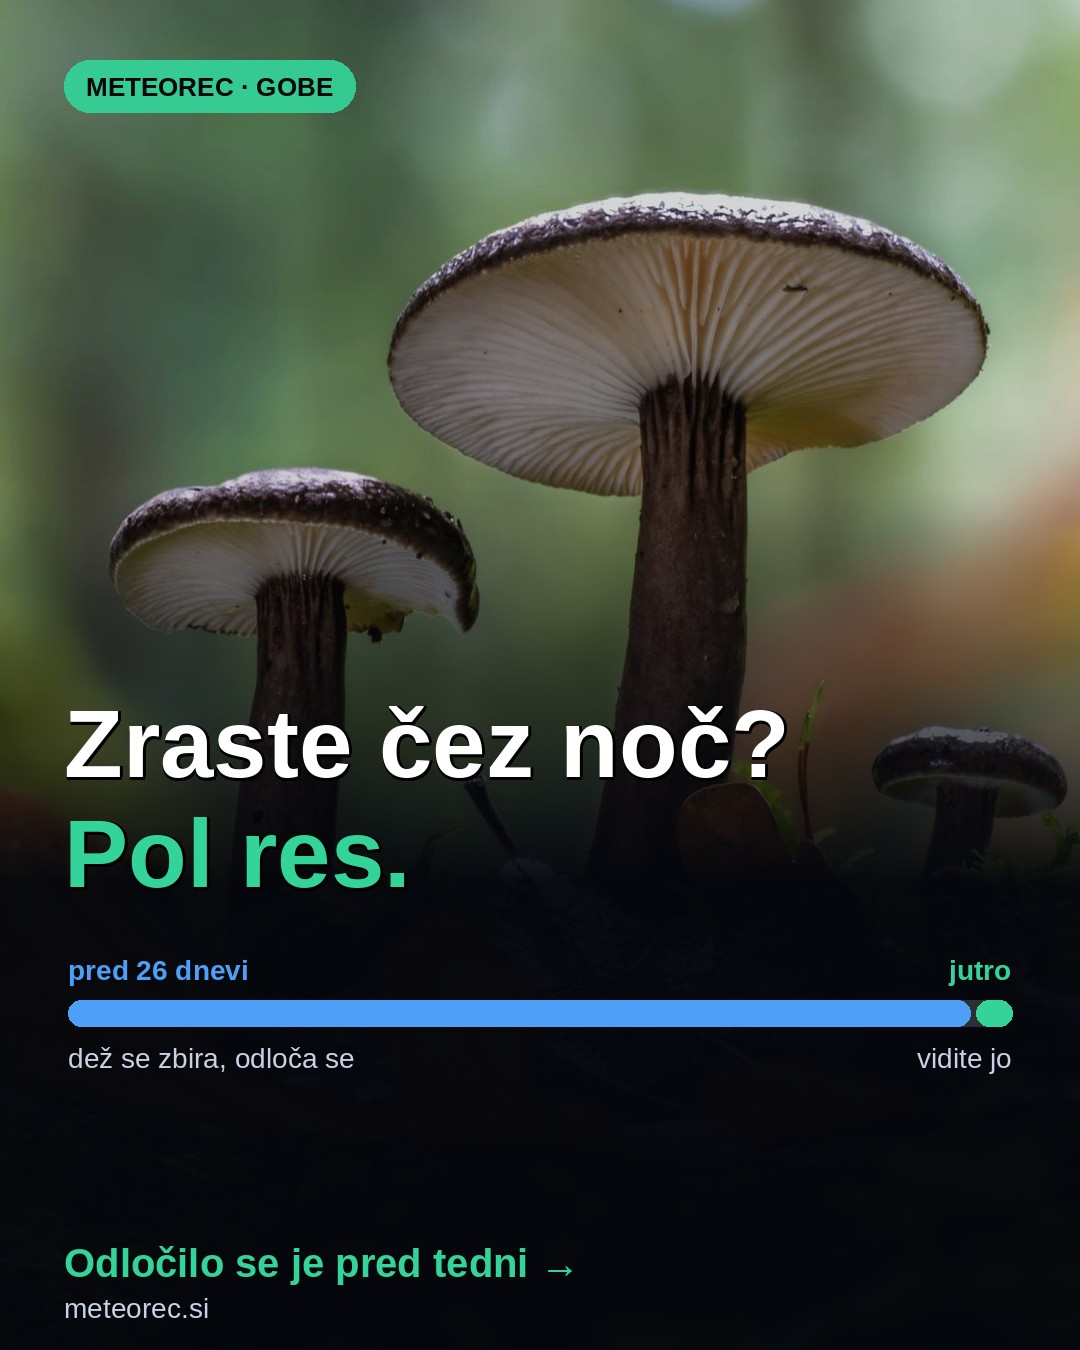
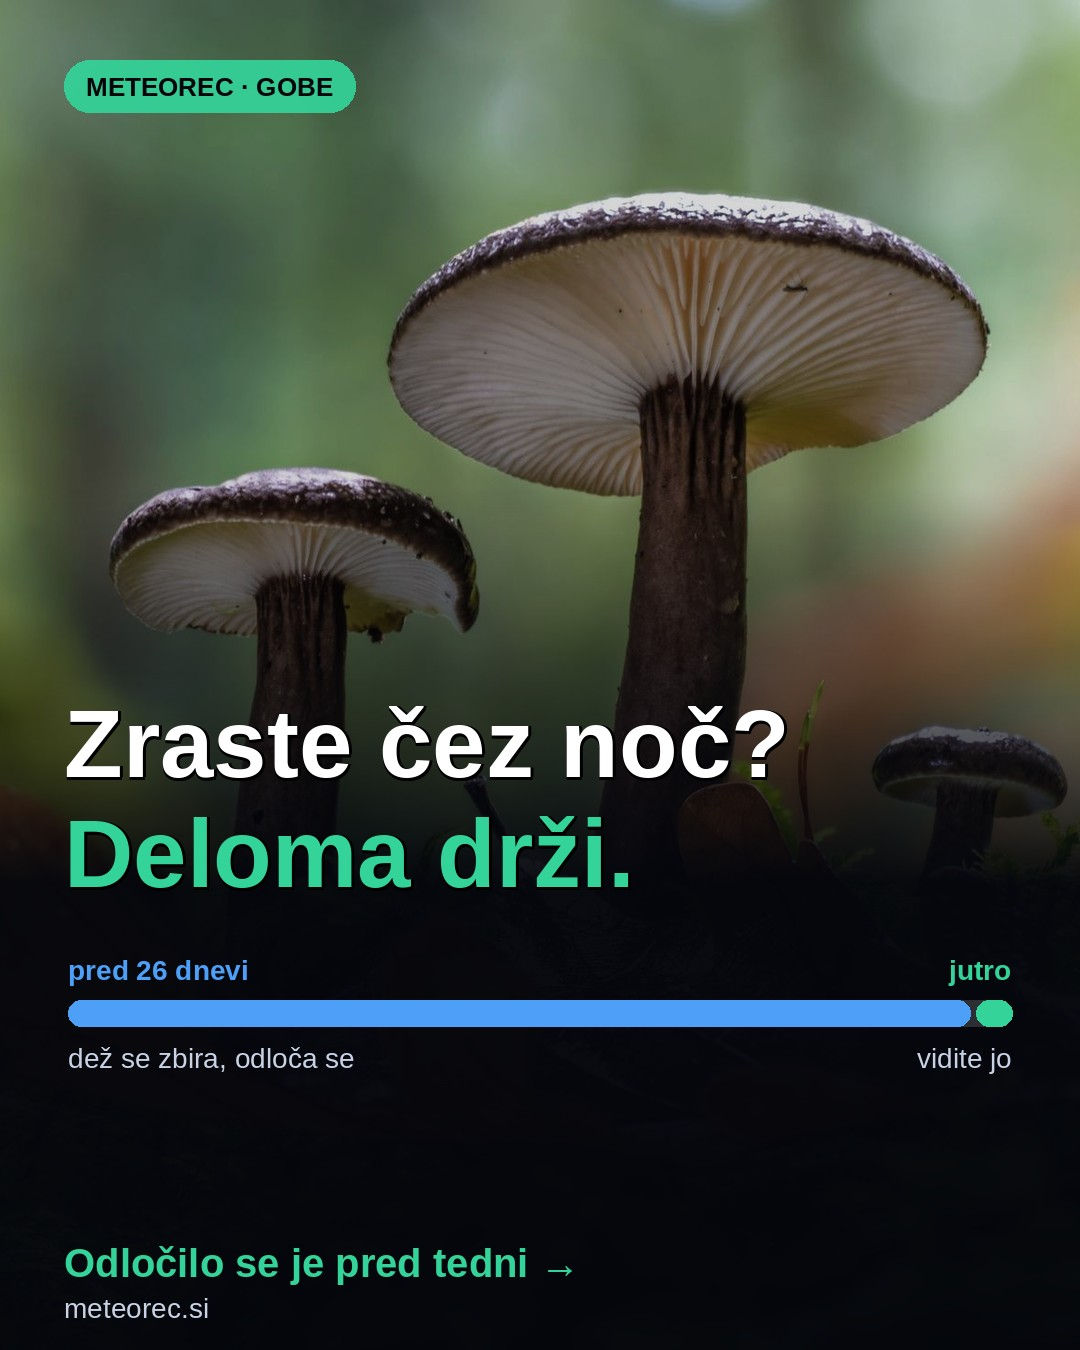
blog: »pol res« → »deloma drži« (članek, opis, FAQ, kartica, vodnik) (#1142)
Claude-Session: https://claude.ai/code/session_01BHL3s1ghsFVEuN7zdpKS3d

Changed region(s): [[0.0611, 0.5911, 0.5806, 0.6533]]

diff --git a/blog/goba-zraste-cez-noc-odlocilo-se-je-pred-tedni.html b/blog/goba-zraste-cez-noc-odlocilo-se-je-pred-tedni.html
@@ -21,7 +21,7 @@ j=d.createElement(s),dl=l!='dataLayer'?'&l='+l:'';j.async=true;j.src=
 <link rel="canonical" href="https://meteorec.si/blog/goba-zraste-cez-noc-odlocilo-se-je-pred-tedni.html">
 <link rel="alternate" hreflang="sl" href="https://meteorec.si/blog/goba-zraste-cez-noc-odlocilo-se-je-pred-tedni.html">
 <link rel="alternate" hreflang="x-default" href="https://meteorec.si/blog/goba-zraste-cez-noc-odlocilo-se-je-pred-tedni.html">
-<meta name="description" content="Goba res zraste čez noč? Pol res. Zadnja faza je hitra, odločilo pa se je pred tedni: študija jurčkov, podatki postaje in opažanja gob.">
+<meta name="description" content="Goba res zraste čez noč? Deloma drži. Zadnja faza je hitra, odločilo pa se je pred tedni: študija jurčkov, podatki postaje in opažanja gob.">
 <meta name="keywords" content="gobe, gobarski-indeks, analiza, zgornja savinjska dolina">
 <meta name="robots" content="index, follow, max-image-preview:large">
 <meta name="author" content="Filip Eremita">
@@ -29,7 +29,7 @@ j=d.createElement(s),dl=l!='dataLayer'?'&l='+l:'';j.async=true;j.src=
 <meta property="og:url" content="https://meteorec.si/blog/goba-zraste-cez-noc-odlocilo-se-je-pred-tedni.html">
 <meta property="og:site_name" content="Meteorec">
 <meta property="og:title" content="Goba zraste čez noč? Odločilo se je pred tedni">
-<meta property="og:description" content="Goba res zraste čez noč? Pol res. Zadnja faza je hitra, odločilo pa se je pred tedni: študija jurčkov, podatki postaje in opažanja gob.">
+<meta property="og:description" content="Goba res zraste čez noč? Deloma drži. Zadnja faza je hitra, odločilo pa se je pred tedni: študija jurčkov, podatki postaje in opažanja gob.">
 <meta property="og:image" content="https://meteorec.si/og/goba-zraste-cez-noc-odlocilo-se-je-pred-tedni.jpg">
 <meta property="og:image:width" content="1200">
 <meta property="og:image:height" content="630">
@@ -39,14 +39,14 @@ j=d.createElement(s),dl=l!='dataLayer'?'&l='+l:'';j.async=true;j.src=
 <meta property="article:section" content="Gobe">
 <meta name="twitter:card" content="summary_large_image">
 <meta name="twitter:title" content="Goba zraste čez noč? Odločilo se je pred tedni">
-<meta name="twitter:description" content="Goba res zraste čez noč? Pol res. Zadnja faza je hitra, odločilo pa se je pred tedni: študija jurčkov, podatki postaje in opažanja gob.">
+<meta name="twitter:description" content="Goba res zraste čez noč? Deloma drži. Zadnja faza je hitra, odločilo pa se je pred tedni: študija jurčkov, podatki postaje in opažanja gob.">
 <meta name="twitter:image" content="https://meteorec.si/og/goba-zraste-cez-noc-odlocilo-se-je-pred-tedni.jpg">
 <script type="application/ld+json">
 {
   "@context": "https://schema.org",
   "@type": "BlogPosting",
   "headline": "Goba zraste čez noč? Odločilo se je pred tedni",
-  "description": "Goba res zraste čez noč? Pol res. Zadnja faza je hitra, odločilo pa se je pred tedni: študija jurčkov, podatki postaje in opažanja gob.",
+  "description": "Goba res zraste čez noč? Deloma drži. Zadnja faza je hitra, odločilo pa se je pred tedni: študija jurčkov, podatki postaje in opažanja gob.",
   "image": { "@type": "ImageObject", "url": "https://meteorec.si/og/goba-zraste-cez-noc-odlocilo-se-je-pred-tedni.jpg", "width": 1200, "height": 630 },
   "datePublished": "2026-10-10T17:05:40.560301+00:00",
   "dateModified": "2026-10-10T17:05:40.560301+00:00",
@@ -71,7 +71,7 @@ j=d.createElement(s),dl=l!='dataLayer'?'&l='+l:'';j.async=true;j.src=
       "name": "Ali goba zraste čez noč?",
       "acceptedAnswer": {
         "@type": "Answer",
-        "text": "Pol res. Napihovanje zametka v zrel klobuk je lahko hitro, vendar zametek nastane več dni prej, vlaga in toplota, ki ga sprožita, pa delujeta tedne. Zato je opažanje »zraste čez noč« skladno z vsemi tremi stvarmi hkrati."
+        "text": "Deloma drži. Napihovanje zametka v zrel klobuk je lahko hitro, vendar zametek nastane več dni prej, vlaga in toplota, ki ga sprožita, pa delujeta tedne. Zato je opažanje »zraste čez noč« skladno z vsemi tremi stvarmi hkrati."
       }
     },
     {
@@ -157,7 +157,7 @@ height="0" width="0" style="display:none;visibility:hidden"></iframe></noscript>
     <h1>Goba zraste čez noč? Odločilo se je pred tedni</h1>
     <p class="post-meta">10. oktobra 2026 · Filip Eremita · ročni članek</p>
 
-    <p class="lead"><strong>Kratek odgovor: pol res.</strong> Ko jurček enkrat požene, raste hitro, zato ga zjutraj vidite, včeraj pa ga ni bilo. A goba, ki je zdaj velika, je začela nastajati nekaj dni prej, vlaga, ki jo je sprožila, pa se je nabirala tedne. Desetletna študija jurčkov v nemškem bukovem gozdu kaže, da je bilo plodenje najverjetnejše, ko je bila povprečna temperatura v prejšnjih 20 dneh okoli 13 °C, in da je verjetnost naraščala z dežjem, seštetim v prejšnjih 26 dneh. Zato se vam zdi, da je zrasla čez noč, odločilo pa se je že pred tremi tedni.</p>
+    <p class="lead"><strong>Kratek odgovor: deloma drži.</strong> Ko jurček enkrat požene, raste hitro, zato ga zjutraj vidite, včeraj pa ga ni bilo. A goba, ki je zdaj velika, je začela nastajati nekaj dni prej, vlaga, ki jo je sprožila, pa se je nabirala tedne. Desetletna študija jurčkov v nemškem bukovem gozdu kaže, da je bilo plodenje najverjetnejše, ko je bila povprečna temperatura v prejšnjih 20 dneh okoli 13 °C, in da je verjetnost naraščala z dežjem, seštetim v prejšnjih 26 dneh. Zato se vam zdi, da je zrasla čez noč, odločilo pa se je že pred tremi tedni.</p>
 
     <div class="mini-stat-grid">
       <div class="mini-stat"><div class="ms-label">Temperaturno okno</div><div class="ms-val">20 dni</div><div class="ms-sub">vrh pri ~13 °C (jurček, Nemčija)</div></div>
@@ -272,7 +272,7 @@ height="0" width="0" style="display:none;visibility:hidden"></iframe></noscript>
     <span class="section-label">07 — pogosta vprašanja</span>
     <h2 id="faq">Pogosta vprašanja</h2>
     <h3>Ali goba zraste čez noč?</h3>
-    <p>Pol res. Napihovanje zametka v zrel klobuk je lahko hitro, vendar zametek nastane več dni prej, vlaga in toplota, ki ga sprožita, pa delujeta tedne. Zato je opažanje »zraste čez noč« skladno z vsemi tremi stvarmi hkrati.</p>
+    <p>Deloma drži. Napihovanje zametka v zrel klobuk je lahko hitro, vendar zametek nastane več dni prej, vlaga in toplota, ki ga sprožita, pa delujeta tedne. Zato je opažanje »zraste čez noč« skladno z vsemi tremi stvarmi hkrati.</p>
     <h3>Koliko dni po dežju rastejo jurčki?</h3>
     <p>Po opažanjih na iNaturalist je mediana 10 dni po začetku zadnjega močnega dežja (običajni razpon 4–17 dni). Del gob je opaženih že v dveh dneh. Naš model uporablja okno 8–16 dni.</p>
     <h3>Koliko dežja potrebuje jurček?</h3>

diff --git a/blog/koliko-dni-po-dezju-rastejo-gobe.html b/blog/koliko-dni-po-dezju-rastejo-gobe.html
@@ -148,7 +148,7 @@ height="0" width="0" style="display:none;visibility:hidden"></iframe></noscript>
   <!-- sorodni:start — samodejno, wire_all(); ne urejaj ročno -->
   <section class="related-posts">
     <h2 class="related-title">Sorodni članki</h2>
-    <div class="related-grid"><a class="related-card" href="/blog/gobe-po-dezju-8-10-oktobra-kdaj-in-kje-1007.html"><span class="related-date">7. oktobra 2026</span><span class="related-h">Gobe po dežju 8.–10. oktobra: kdaj in kje jih pričakovati</span><span class="related-sum">Dež 8.–10. 10. konča 18 suhih dni. Gobe na lesu pridejo prve (11.–20. 10.), jurčki 16.–26. 10. Interaktivni grafi: okna …</span></a><a class="related-card" href="/blog/goba-zraste-cez-noc-odlocilo-se-je-pred-tedni.html"><span class="related-date">10. oktobra 2026</span><span class="related-h">Goba zraste čez noč? Odločilo se je pred tedni</span><span class="related-sum">Goba res zraste čez noč? Pol res. Zadnja faza je hitra, odločilo pa se je pred tedni: študija jurčkov, podatki postaje i…</span></a><a class="related-card" href="/blog/padlo-10-mm-na-suha-tla-zakaj-jurckov-se-ni-1009.html"><span class="related-date">9. oktobra 2026</span><span class="related-h">Padlo je 10 mm na suha tla. Zakaj jurčkov še ni?</span><span class="related-sum">9,9 mm dežja po 20 suhih dneh je bilo 40 % praga za jurčka. Vlaga tal pred dežjem: 4 % (model). Jurčki najprej 16. oktob…</span></a></div>
+    <div class="related-grid"><a class="related-card" href="/blog/gobe-po-dezju-8-10-oktobra-kdaj-in-kje-1007.html"><span class="related-date">7. oktobra 2026</span><span class="related-h">Gobe po dežju 8.–10. oktobra: kdaj in kje jih pričakovati</span><span class="related-sum">Dež 8.–10. 10. konča 18 suhih dni. Gobe na lesu pridejo prve (11.–20. 10.), jurčki 16.–26. 10. Interaktivni grafi: okna …</span></a><a class="related-card" href="/blog/goba-zraste-cez-noc-odlocilo-se-je-pred-tedni.html"><span class="related-date">10. oktobra 2026</span><span class="related-h">Goba zraste čez noč? Odločilo se je pred tedni</span><span class="related-sum">Goba res zraste čez noč? Deloma drži. Zadnja faza je hitra, odločilo pa se je pred tedni: študija jurčkov, podatki postaje i…</span></a><a class="related-card" href="/blog/padlo-10-mm-na-suha-tla-zakaj-jurckov-se-ni-1009.html"><span class="related-date">9. oktobra 2026</span><span class="related-h">Padlo je 10 mm na suha tla. Zakaj jurčkov še ni?</span><span class="related-sum">9,9 mm dežja po 20 suhih dneh je bilo 40 % praga za jurčka. Vlaga tal pred dežjem: 4 % (model). Jurčki najprej 16. oktob…</span></a></div>
   </section>
   <!-- sorodni:end -->
 

diff --git a/blog/index.html b/blog/index.html
@@ -265,7 +265,7 @@ height="0" width="0" style="display:none;visibility:hidden"></iframe></noscript>
         <div class="post-card-body">
           <div class="date">10. oktobra 2026</div>
           <h2>Goba zraste čez noč? Odločilo se je pred tedni</h2>
-          <p>Goba res zraste čez noč? Pol res. Zadnja faza je hitra, odločilo pa se je pred tedni: študija jurčkov, podatki postaje in opažanja gob. S štirimi interaktivnimi grafi.</p>
+          <p>Goba res zraste čez noč? Deloma drži. Zadnja faza je hitra, odločilo pa se je pred tedni: študija jurčkov, podatki postaje in opažanja gob. S štirimi interaktivnimi grafi.</p>
         </div>
       </a>
     </li>

diff --git a/blog/tema/analiza/index.html b/blog/tema/analiza/index.html
@@ -49,7 +49,7 @@
         <div class="post-card-body">
           <div class="date">10. oktobra 2026</div>
           <h2>Goba zraste čez noč? Odločilo se je pred tedni</h2>
-          <p>Goba res zraste čez noč? Pol res. Zadnja faza je hitra, odločilo pa se je pred tedni: študija jurčkov, podatki postaje in opažanja gob. S štirimi interaktivnimi grafi.</p>
+          <p>Goba res zraste čez noč? Deloma drži. Zadnja faza je hitra, odločilo pa se je pred tedni: študija jurčkov, podatki postaje in opažanja gob. S štirimi interaktivnimi grafi.</p>
         </div>
       </a>
     </li>

diff --git a/blog/tema/gobarski-indeks/index.html b/blog/tema/gobarski-indeks/index.html
@@ -49,7 +49,7 @@
         <div class="post-card-body">
           <div class="date">10. oktobra 2026</div>
           <h2>Goba zraste čez noč? Odločilo se je pred tedni</h2>
-          <p>Goba res zraste čez noč? Pol res. Zadnja faza je hitra, odločilo pa se je pred tedni: študija jurčkov, podatki postaje in opažanja gob. S štirimi interaktivnimi grafi.</p>
+          <p>Goba res zraste čez noč? Deloma drži. Zadnja faza je hitra, odločilo pa se je pred tedni: študija jurčkov, podatki postaje in opažanja gob. S štirimi interaktivnimi grafi.</p>
         </div>
       </a>
     </li>

diff --git a/blog/tema/gobe/index.html b/blog/tema/gobe/index.html
@@ -49,7 +49,7 @@
         <div class="post-card-body">
           <div class="date">10. oktobra 2026</div>
           <h2>Goba zraste čez noč? Odločilo se je pred tedni</h2>
-          <p>Goba res zraste čez noč? Pol res. Zadnja faza je hitra, odločilo pa se je pred tedni: študija jurčkov, podatki postaje in opažanja gob. S štirimi interaktivnimi grafi.</p>
+          <p>Goba res zraste čez noč? Deloma drži. Zadnja faza je hitra, odločilo pa se je pred tedni: študija jurčkov, podatki postaje in opažanja gob. S štirimi interaktivnimi grafi.</p>
         </div>
       </a>
     </li>

diff --git a/blog/tema/zgornja-savinjska-dolina/index.html b/blog/tema/zgornja-savinjska-dolina/index.html
@@ -49,7 +49,7 @@
         <div class="post-card-body">
           <div class="date">10. oktobra 2026</div>
           <h2>Goba zraste čez noč? Odločilo se je pred tedni</h2>
-          <p>Goba res zraste čez noč? Pol res. Zadnja faza je hitra, odločilo pa se je pred tedni: študija jurčkov, podatki postaje in opažanja gob. S štirimi interaktivnimi grafi.</p>
+          <p>Goba res zraste čez noč? Deloma drži. Zadnja faza je hitra, odločilo pa se je pred tedni: študija jurčkov, podatki postaje in opažanja gob. S štirimi interaktivnimi grafi.</p>
         </div>
       </a>
     </li>

diff --git a/docs/slog-pisanja.md b/docs/slog-pisanja.md
@@ -14,7 +14,7 @@ Osnutek, 10. 10. 2026. Pravila z oznako **[potrdi]** sem sklepal iz Filipovih po
 
 - **Naslov do 60 znakov** (Google odreže, glej `seo_title()`), brez dvopičja, če gre brez. Najbolje deluje relatabilen prizor ali konkretna številka (»Zakaj vaš sosed vedno najde gobe, vi pa ne?«, »8–16 dni«). Ne uporabljamo vabljivih naslovov, ki jih besedilo ne izpolni.
 - **Uvod: odgovor ali prizor v prvih dveh stavkih.** Če je mogoče, s konkretno številko. Po podatkih strani so objave z napisanim uvodom in številko prinesle večino dosega.
-- **Kratek odgovor najprej** (»Kratek odgovor: pol res.«), nato razlaga in grafi.
+- **Kratek odgovor najprej** (»Kratek odgovor: deloma drži.«), nato razlaga in grafi.
 - **Odstavki do 4 stavkov.** Seznam, kadar so 3 ali več vzporednih stvari. Razdelki z oznako (`section-label`) in naslovom, ki je sam po sebi odgovor.
 - **Konec: kaj naj bralec naredi** (povezava na napoved, kalkulator, vpis opažanja), ne povzetek.
 
